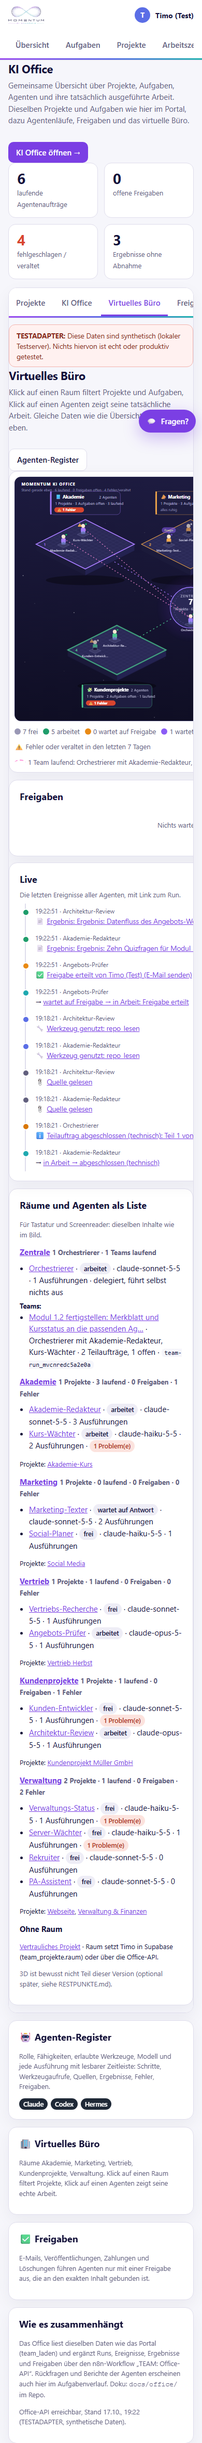
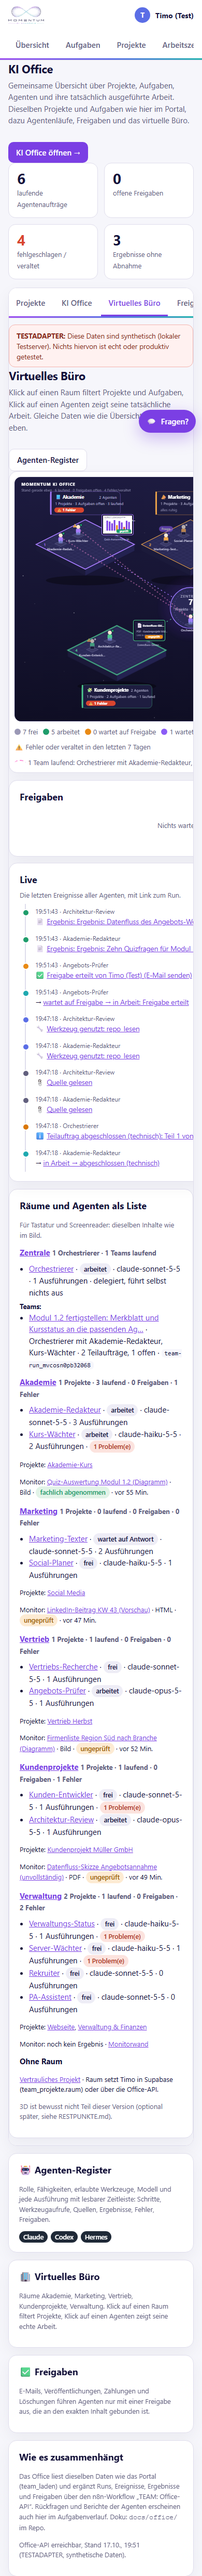
KI Office: Monitor – Screenshots nach Merge mit main neu (Teams und Monitore), Testbericht 74/74

Changed region(s): [[0.0308, 0.0, 0.9846, 0.9943], [0.9231, 0.0932, 0.9538, 0.1243], [0.8308, 0.435, 0.8615, 0.4661]]

diff --git a/docs/office/TESTBERICHT.md b/docs/office/TESTBERICHT.md
@@ -150,7 +150,7 @@ Nicht getestet: die neuen Spalten gegen das echte Supabase (`alter table … add
 
 | Lauf | Ergebnis |
 |---|---|
-| `npm run test:office` (Playwright-Chromium 1.56, Windows 11, Node 24.18) | **63/63 bestanden** (vorher 55; neu: 6 Unit-Tests `unit.monitor.test.mjs`, Browsertest „Monitor“ Desktop und Mobil, Leerprüfung der fünf Monitore im Szenario „leer“) |
+| `npm run test:office` (Playwright-Chromium 1.56, Windows 11, Node 24.18) | **63/63 bestanden** vor dem Merge, **74/74** nach dem Merge mit main (Orchestrierung, erster Ausführer); (vorher 55; neu: 6 Unit-Tests `unit.monitor.test.mjs`, Browsertest „Monitor“ Desktop und Mobil, Leerprüfung der fünf Monitore im Szenario „leer“) |
 | Unit: `ladbareAdresse`, `artefaktTyp`, `raumArtefakte`, `raumMonitor` | nur `https://` oder relativ wird geladen; `http:`, `data:`, `javascript:` (auch mit eingestreutem Zeilenumbruch), `blob:`, `file:`, `notiz:`, `//…`, Backslash, Leerraum, Anführungszeichen werden abgelehnt; Typ aus Endung (png/jpg/jpeg/svg/webp/gif, html/htm, pdf) oder `art`; Bild/HTML ohne ladbare Adresse wird zur Karte; Artefakte nur aus Runs der Raumprojekte, neueste zuerst, höchstens n; Monitor bevorzugt Bild/HTML, dann PDF, dann das neueste überhaupt |
 | Browser „Monitor zeigt Bild“ | Akademie: `<image href="testbilder/akademie-quiz-modul-1-2.svg">`, Marke „geprüft“ (Run fachlich abgenommen); Bild in der Monitorwand geladen (`naturalWidth > 0`) |
 | Browser „Monitor zeigt ungeprüft“ | Vertrieb: Bild mit Marke „ungeprüft“ (Run abgeschlossen, keine Abnahme); Kundenprojekte: PDF-Karte ohne `image`/`iframe`, „ungeprüft“ |
